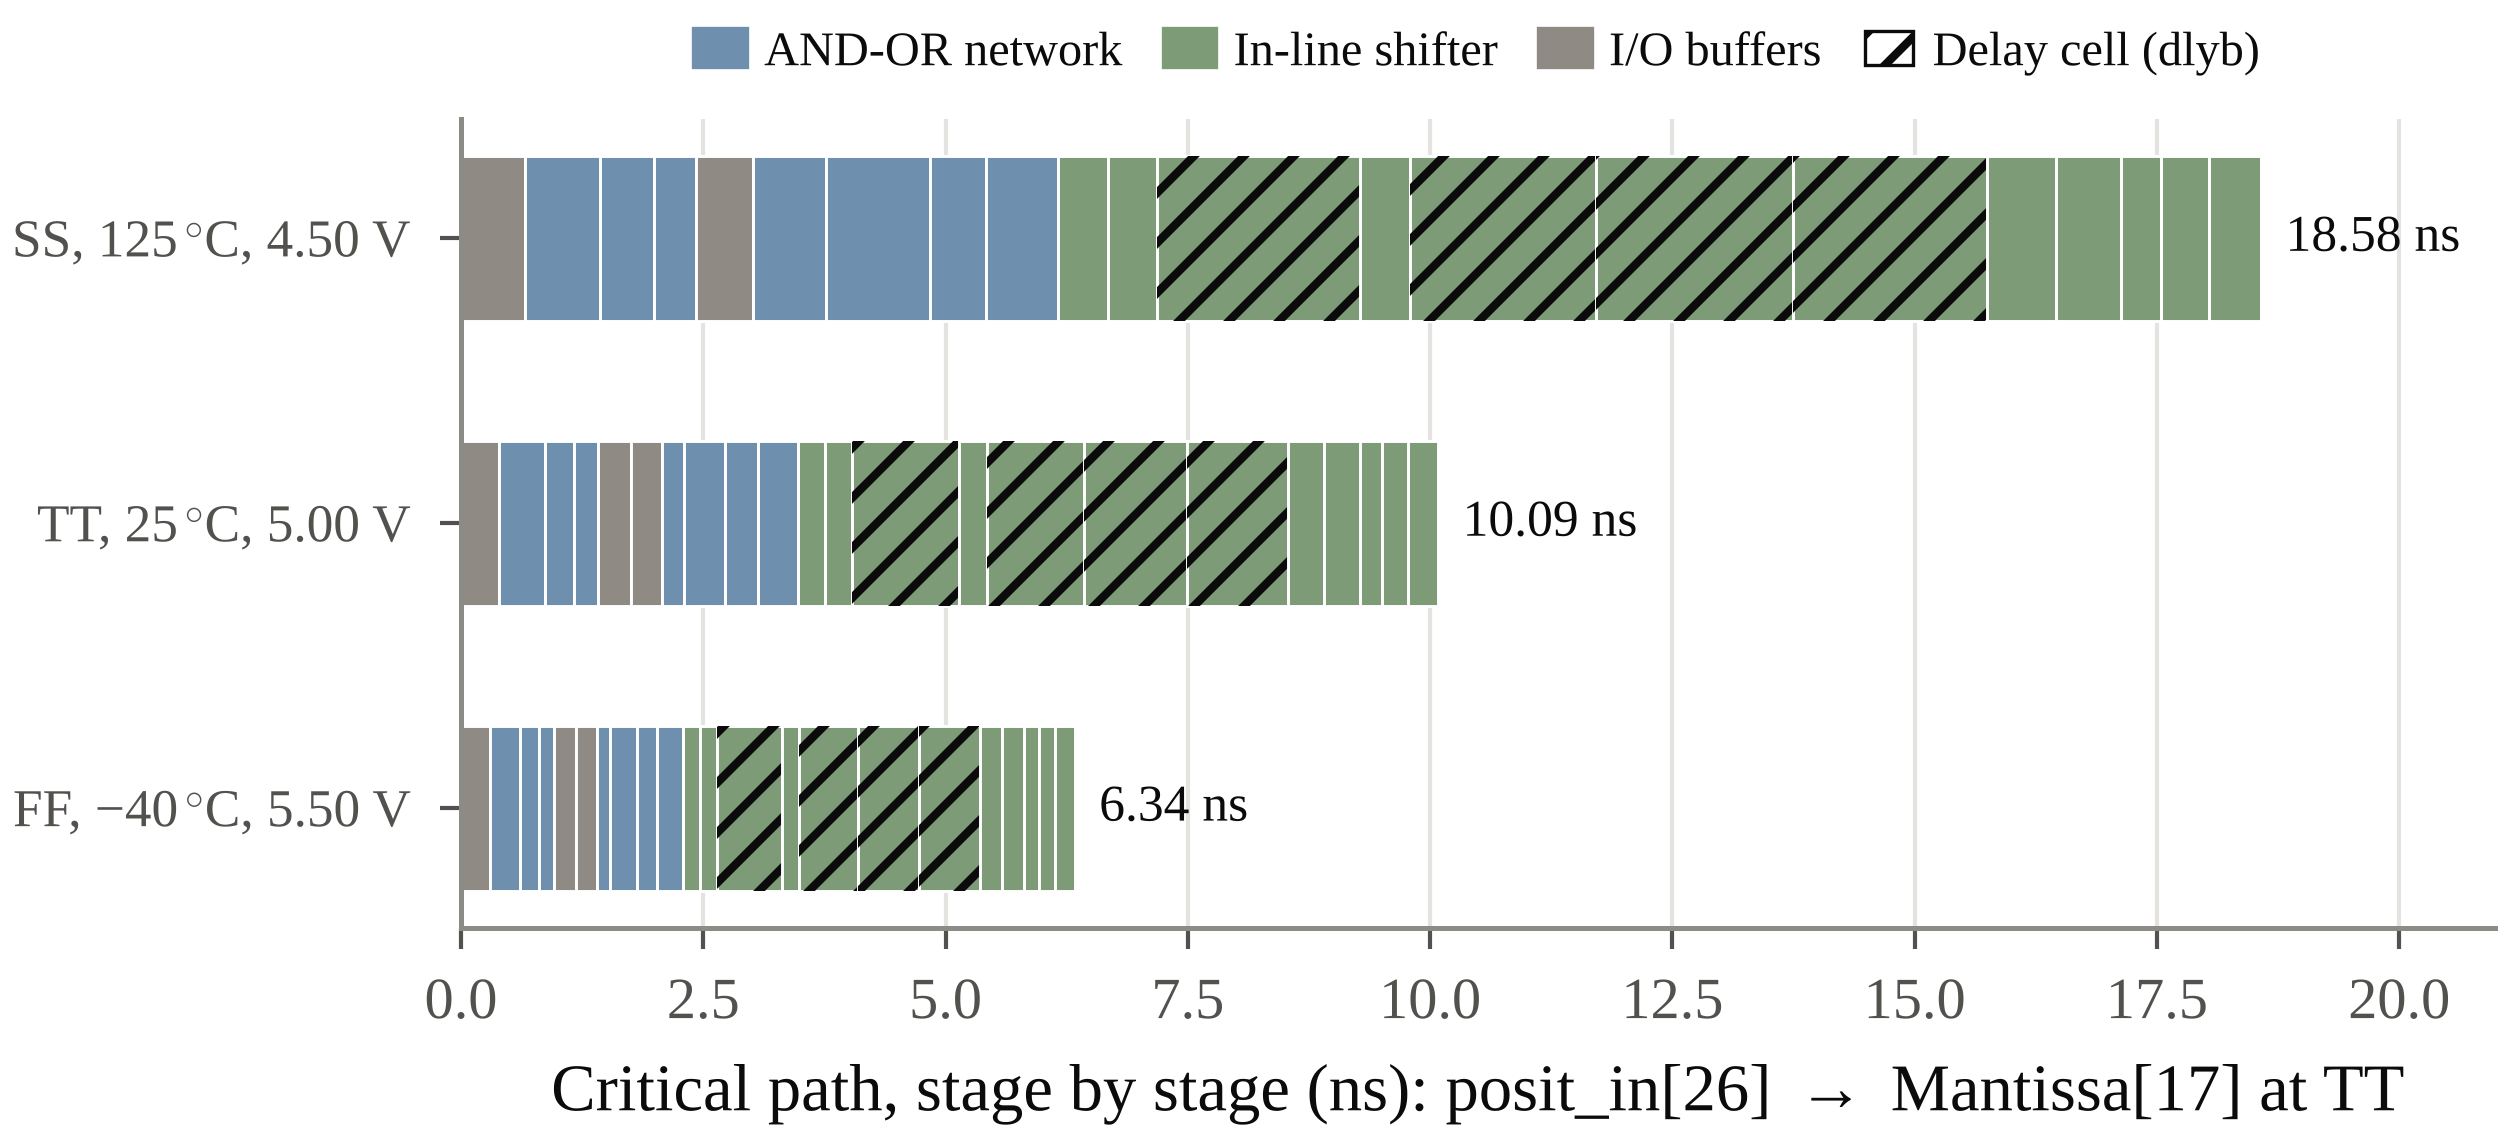
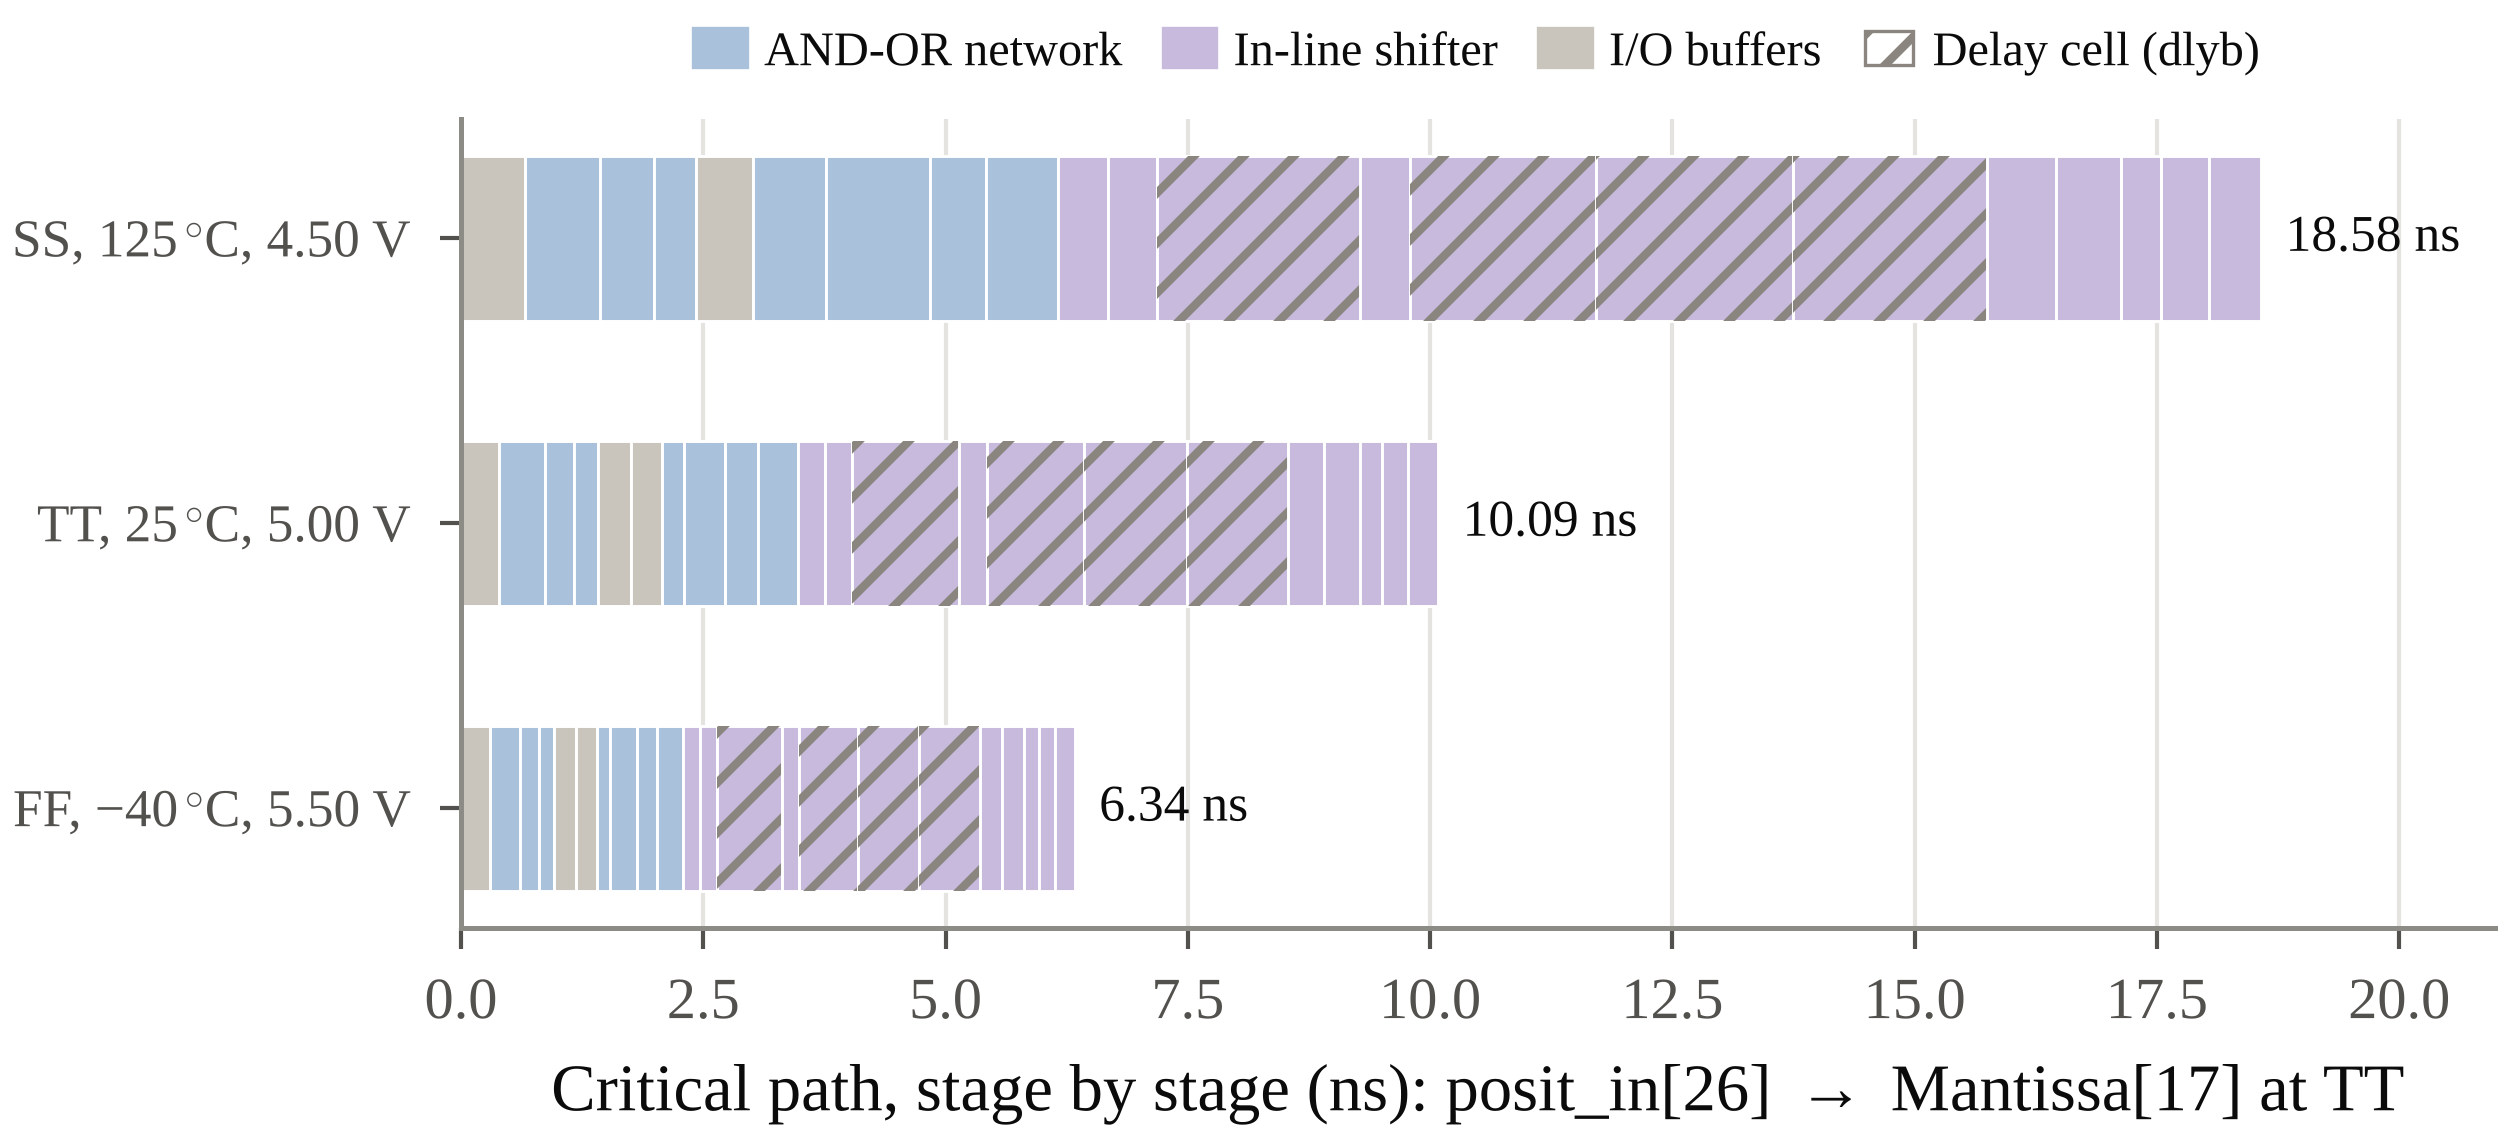
Component figures: lighter palette without green [skip ci]
Claude-Session: https://claude.ai/code/session_01VTxzAWPmfUKk5VbDJUw6xY

diff --git a/scripts/comp_figs.py b/scripts/comp_figs.py
@@ -13,9 +13,9 @@ import numpy as np                                     # noqa: E402
 sys.path.insert(0, os.path.dirname(os.path.abspath(__file__)))
 from paper_figs3 import COL1, GRID, INK, INK2, save, setup_style    # noqa: E402
 
-MATTE = {"AND-OR network": "#6f8fae", "Boundary comparator": "#c9a66b", "In-line shifter": "#7d9b76",
-         "Output encoding": "#b07c8f", "Timing-repair buffers": "#c4876a", "I/O buffers": "#8f8a83",
-         "Physical cells": "#d6d1c6"}
+MATTE = {"AND-OR network": "#a9c1da", "Boundary comparator": "#e6d2a6", "In-line shifter": "#c7badd",
+         "Output encoding": "#e6bccb", "Timing-repair buffers": "#eec5ad", "I/O buffers": "#c9c4bc",
+         "Physical cells": "#ebe8e1"}
 SHORT = {"AND-OR network": "AND-OR network", "Boundary comparator": "1-bit boundary comparator",
          "In-line shifter": "In-line shifter", "Output encoding": "Output encoding",
          "Timing-repair buffers": "Timing-repair buffers", "I/O buffers": "I/O buffers",
@@ -85,7 +85,7 @@ def fig_path(b, out):
         for c, d, cell, owner in b["delay"][corner]["seq"]:
             ax.barh(i, d, left=left, color=MATTE[owner], height=0.58, edgecolor="white", lw=0.35)
             if "dly" in cell:
-                ax.barh(i, d, left=left, color="none", height=0.58, edgecolor=INK, lw=0, hatch="////")
+                ax.barh(i, d, left=left, color="none", height=0.58, edgecolor="#8a857e", lw=0, hatch="////")
             left += d
             seen.add(owner)
         ax.text(left + 0.25, i, f"{left:.2f} ns", va="center", fontsize=6.2, color=INK)
@@ -99,7 +99,7 @@ def fig_path(b, out):
     ax.set_axisbelow(True)
     order = [c for c in MATTE if c in seen]
     h = [plt.Rectangle((0, 0), 1, 1, color=MATTE[c]) for c in order] + \
-        [plt.Rectangle((0, 0), 1, 1, facecolor="white", edgecolor=INK, lw=0.4, hatch="////")]
+        [plt.Rectangle((0, 0), 1, 1, facecolor="white", edgecolor="#8a857e", lw=0.4, hatch="////")]
     ax.legend(h, [SHORT[c] for c in order] + ["Delay cell (dlyb)"], loc="lower center", bbox_to_anchor=(0.5, 1.0),
               ncol=4, fontsize=5.8, handlelength=1.0, handletextpad=0.4, columnspacing=0.9, frameon=False)
     save(fig, out, "comp03_critical_path_by_component")
